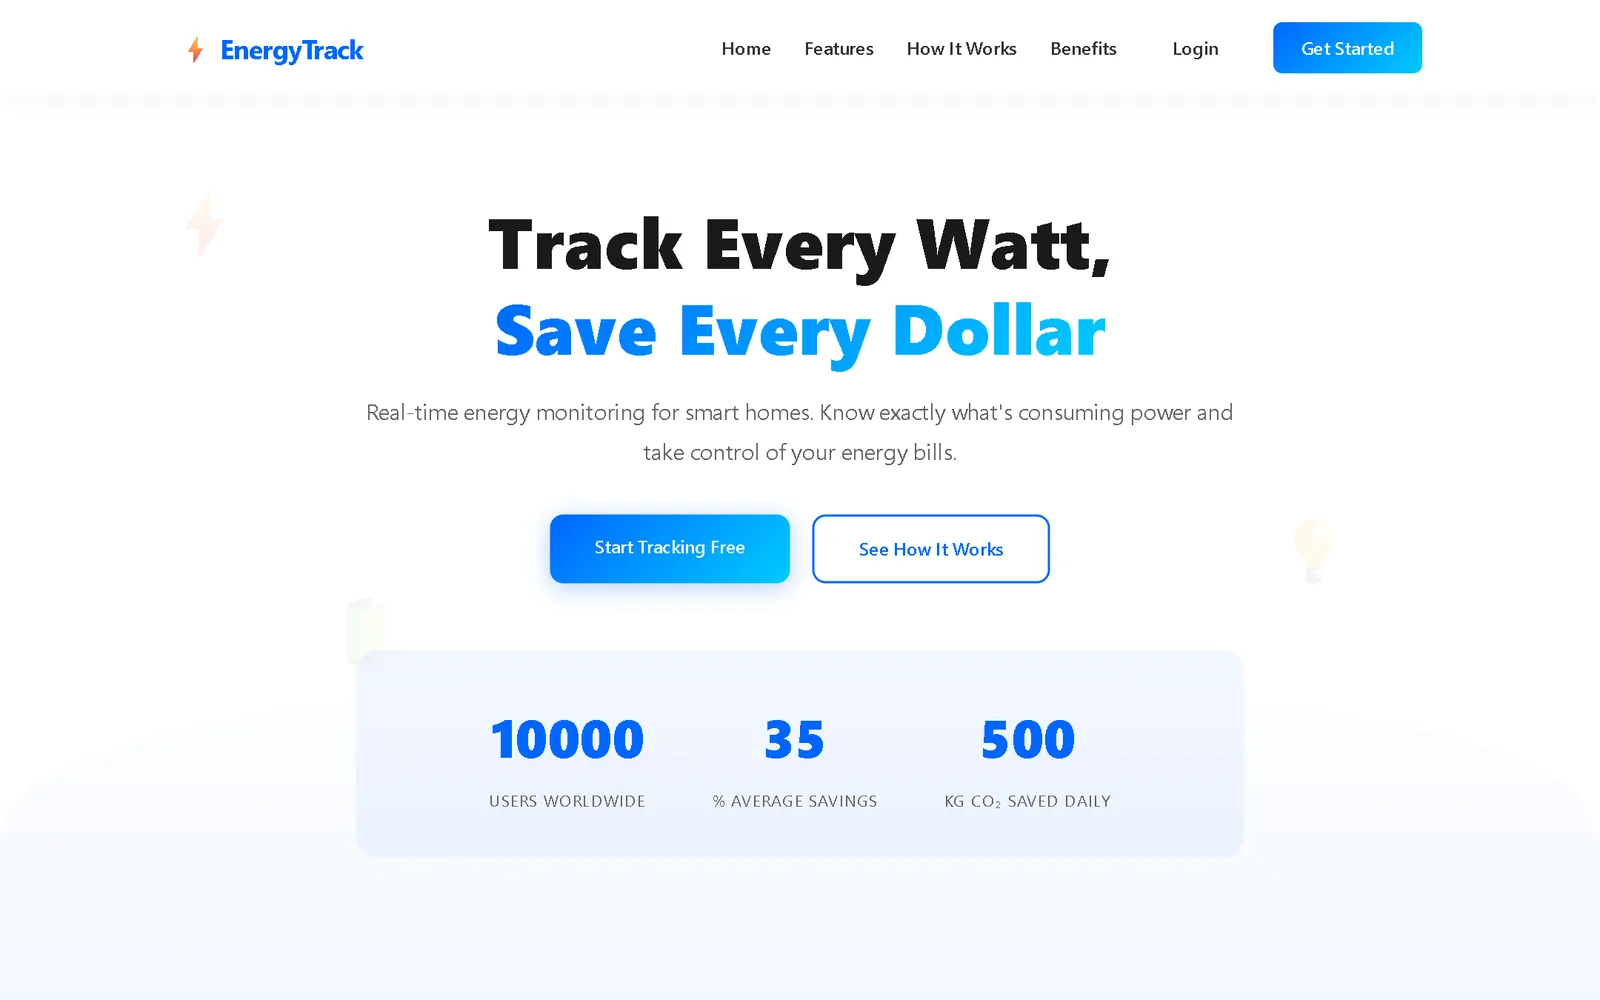
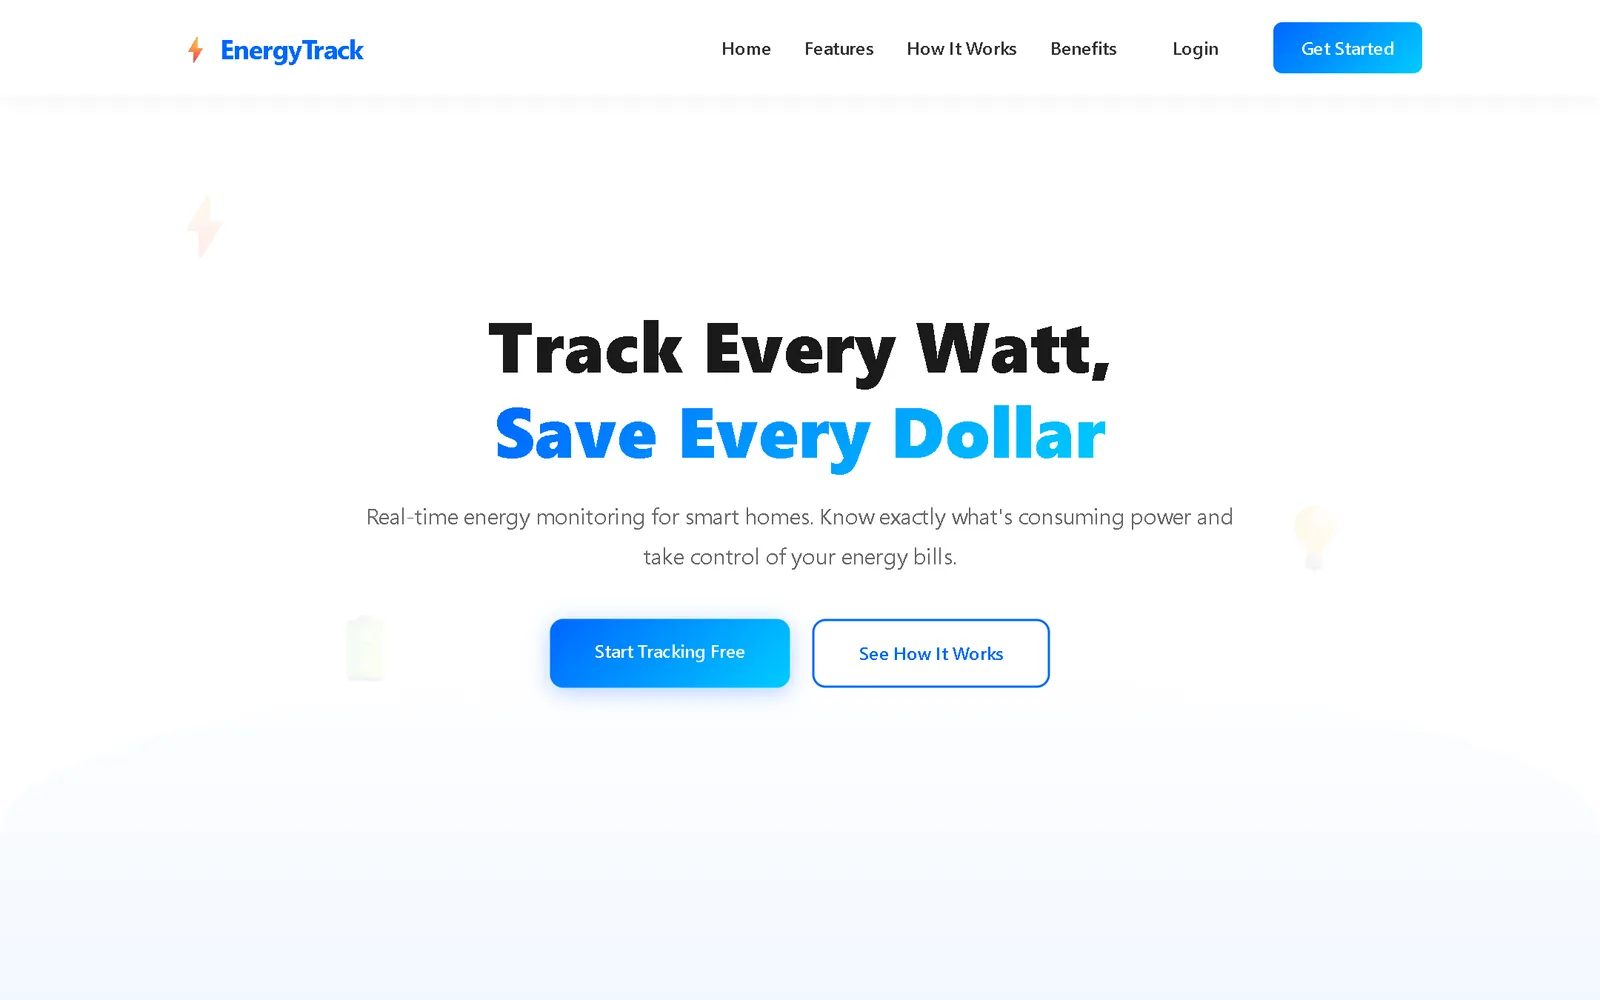
Rename Asset Generator card to KOSMOS; retake TimeGenius and Energy covers without placeholder stats

Changed region(s): [[0.2188, 0.217, 0.7812, 0.806], [0.5938, 0.713, 0.6875, 0.806], [0.5312, 0.62, 0.6562, 0.682]]

diff --git a/src/lib/resumeData.ts b/src/lib/resumeData.ts
@@ -268,7 +268,7 @@ export const more: Minor[] = [
   },
   {
     slug: 'assetgen',
-    name: 'Asset Generator',
+    name: 'KOSMOS',
     kind: 'web',
     category: 'Tool · Level Design',
     summary: 'A level editor for building engine-ready interior spaces and reusable parametric assets.',
@@ -284,7 +284,7 @@ export const more: Minor[] = [
     ],
     details: {
       overview:
-        'Asset Generator (previously KOSMOS, an interior-design tool) is becoming a developer-facing level editor: define precise rectangular spaces, place catalog assets and export deterministic JSON that game engines like Unreal can consume.',
+        'KOSMOS started as an interior-design tool and is becoming a developer-facing level editor: define precise rectangular spaces, place catalog assets and export deterministic JSON that game engines like Unreal can consume.',
       features: [
         'Room setup by type and exact dimensions, with walls generated automatically',
         '2D drag-and-drop canvas with snapping, undo/redo and a properties panel',
@@ -496,11 +496,11 @@ export const skills: SkillGroup[] = [
 export const usedIn: Record<string, string[]> = {
   Python: ['IR-AIS', 'Behavioral Threat Detection', 'Used Car Price & Insurance', 'TimeGenius.AI', "Don't Even Bother"],
   JavaScript: ['EcoSense India', 'GameVault', 'Smart Energy Tracker', 'AlgoViz'],
-  TypeScript: ['IR-AIS', 'Asset Generator'],
+  TypeScript: ['IR-AIS', 'KOSMOS'],
   SQL: ['TimeGenius.AI'],
-  React: ['EcoSense India', 'TimeGenius.AI', 'Asset Generator'],
+  React: ['EcoSense India', 'TimeGenius.AI', 'KOSMOS'],
   'Next.js': ['IR-AIS'],
-  Vite: ['EcoSense India', 'Asset Generator', 'This portfolio'],
+  Vite: ['EcoSense India', 'KOSMOS', 'This portfolio'],
   'Tailwind CSS': ['TimeGenius.AI', 'This portfolio'],
   'Framer Motion': ['This portfolio'],
   'Node.js': ['EcoSense India', 'GameVault', 'Smart Energy Tracker'],
